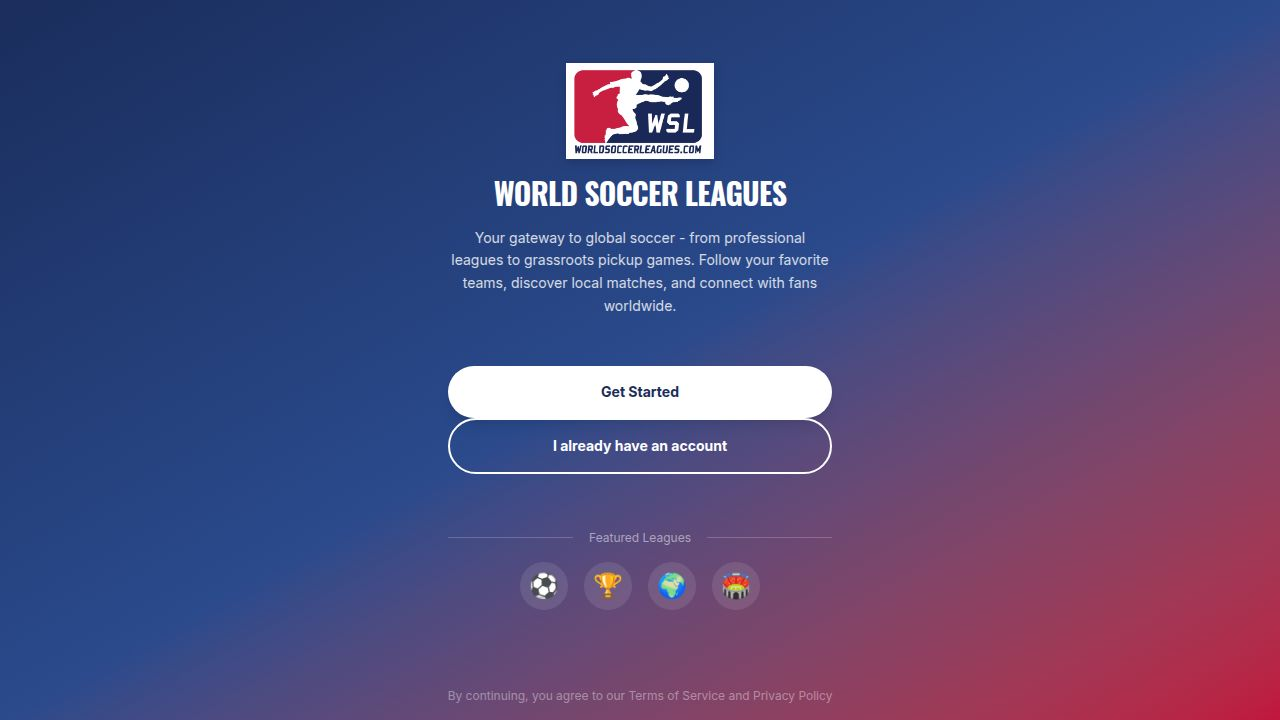
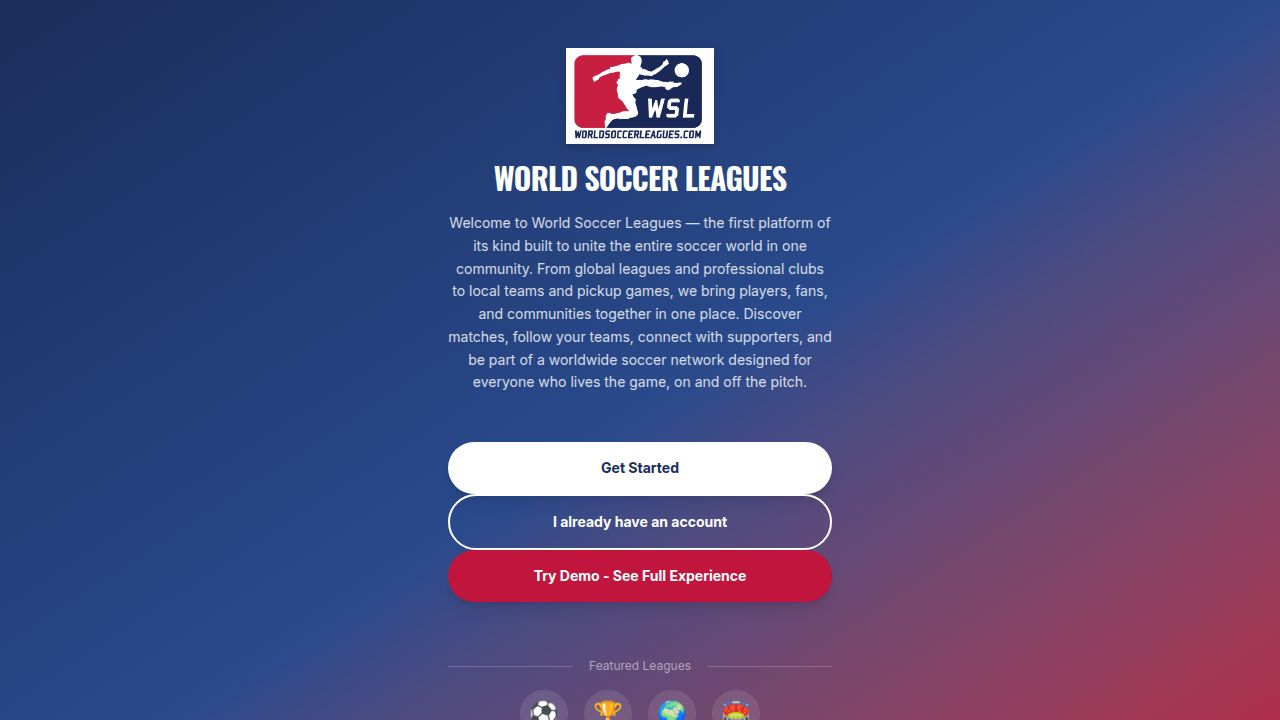
Update landing page welcome message with new community-focused description
Modify the text content within the `landing.tsx` file to reflect the updated marketing copy for the application's welcome message.

Replit-Commit-Author: Agent
Replit-Commit-Session-Id: c41f45fc-be55-4ba7-9b63-bcdffbf26388
Replit-Commit-Checkpoint-Type: full_checkpoint
Replit-Commit-Event-Id: fb69bce5-0bbe-4638-9338-a94644d5ab4b
Replit-Commit-Screenshot-Url: https://storage.googleapis.com/screenshot-production-us-central1/1545909c-4a46-4fe2-ac41-8040795dfc65/c41f45fc-be55-4ba7-9b63-bcdffbf26388/4LidyaC
Replit-Helium-Checkpoint-Created: true

Changed region(s): [[0.3438, 0.0611, 0.6562, 0.8556], [0.3438, 0.9167, 0.6562, 1.0], [0.125, 0.8556, 0.2812, 1.0]]

diff --git a/client/src/pages/landing.tsx b/client/src/pages/landing.tsx
@@ -31,7 +31,7 @@ export default function Landing() {
               World Soccer Leagues
             </h1>
             <p className="text-white/80 text-sm leading-relaxed">
-              Your gateway to global soccer - from professional leagues to grassroots pickup games. Follow your favorite teams, discover local matches, and connect with fans worldwide.
+              Welcome to World Soccer Leagues — the first platform of its kind built to unite the entire soccer world in one community. From global leagues and professional clubs to local teams and pickup games, we bring players, fans, and communities together in one place. Discover matches, follow your teams, connect with supporters, and be part of a worldwide soccer network designed for everyone who lives the game, on and off the pitch.
             </p>
           </div>
 
